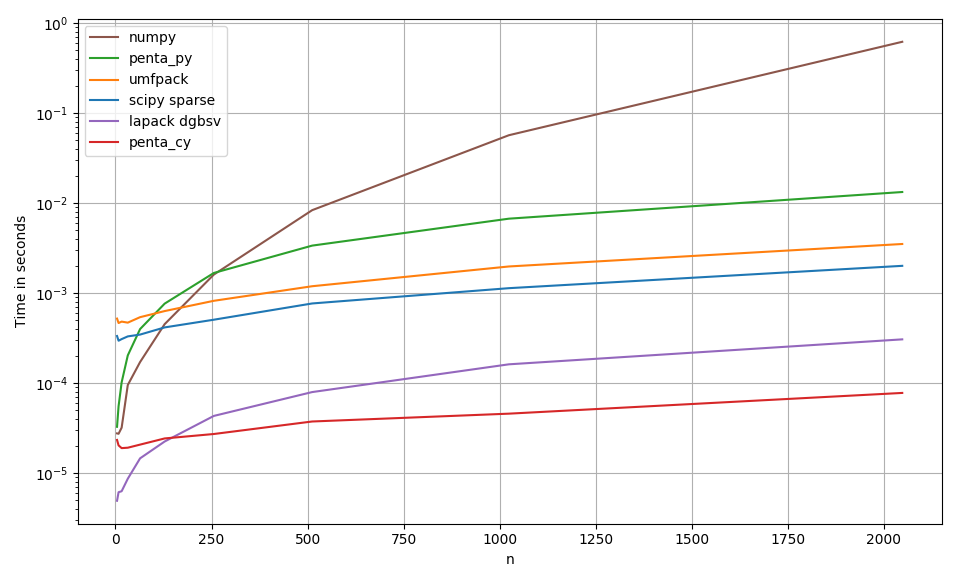
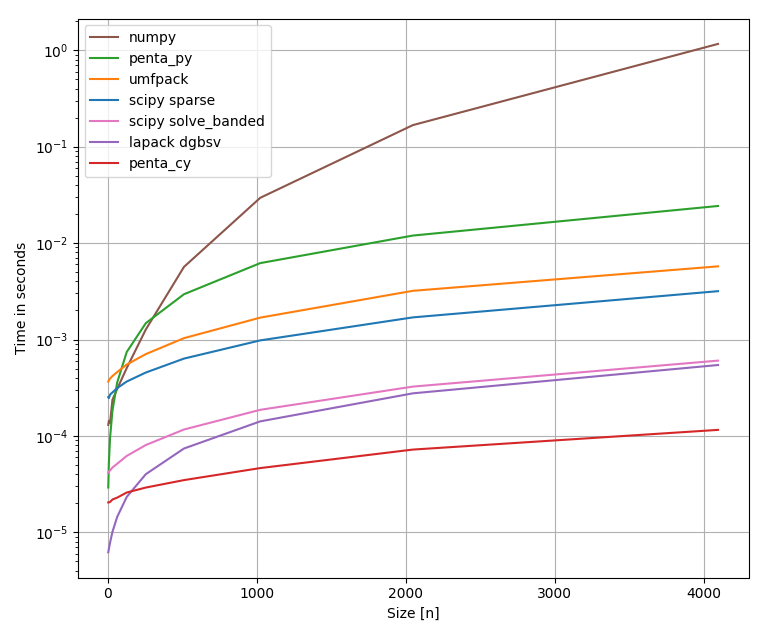
update examples

diff --git a/examples/02_perform.py b/examples/02_perform.py
@@ -4,6 +4,7 @@ from __future__ import division, absolute_import, print_function
 import numpy as np
 from scipy import sparse as sps
 from scipy.sparse.linalg import spsolve
+from scipy.linalg import solve_banded
 from pentapy.py_solver import penta_solver1 as ps1
 from pentapy.core import solve as ps2
 from pentapy import tools
@@ -12,7 +13,7 @@ import perfplot
 
 def get_les(size):
     mat = (np.random.random((5, size)) - 0.5) * 1e-5
-    V = np.array(np.random.random(size) * 1e5, dtype=np.double)
+    V = np.array(np.random.random(size) * 1e5)
     return mat, V
 
 def solve_1(in_val):
@@ -43,8 +44,13 @@ def solve_5(in_val):
 
 def solve_6(in_val):
     mat, V = in_val
+    return solve_banded((2, 2), mat, V)
+
+def solve_7(in_val):
+    mat, V = in_val
     M = tools.create_full(mat)
     return np.linalg.solve(M, V)
+
 
 perfplot.show(
     setup=get_les,
@@ -55,6 +61,7 @@ perfplot.show(
         solve_4,
         solve_5,
         solve_6,
+        solve_7,
     ],
     labels=[
         'scipy sparse',
@@ -62,6 +69,7 @@ perfplot.show(
         'penta_py',
         'penta_cy',
         'lapack dgbsv',
+        'scipy solve_banded',
         'numpy',
     ],
     n_range=[2**k for k in range(2, 13)],

diff --git a/examples/01_solve.py b/examples/01_solve.py
@@ -1,20 +1,14 @@
 import numpy as np
-from pentapy import solve
+import pentapy as pp
 
 size = 1000
 # create a flattened pentadiagonal matrix
 M_flat = (np.random.random((5, size)) - 0.5) * 1e-5
 V = np.random.random(size) * 1e5
-# solve the LES
-X = solve(M_flat, V, is_flat=True)
+# solve the LES with M_flat as row-wise flattened matrix
+X = pp.solve(M_flat, V, is_flat=True)
 
 # create the corresponding matrix for checking
-M = (
-    np.diag(M_flat[0, :-2], 2)
-    + np.diag(M_flat[1, :-1], 1)
-    + np.diag(M_flat[2, :], 0)
-    + np.diag(M_flat[3, 1:], -1)
-    + np.diag(M_flat[4, 2:], -2)
-)
+M = pp.create_full(M_flat, col_wise=False)
 # calculate the error
 print(np.max(np.abs(np.dot(M, X) - V)))
